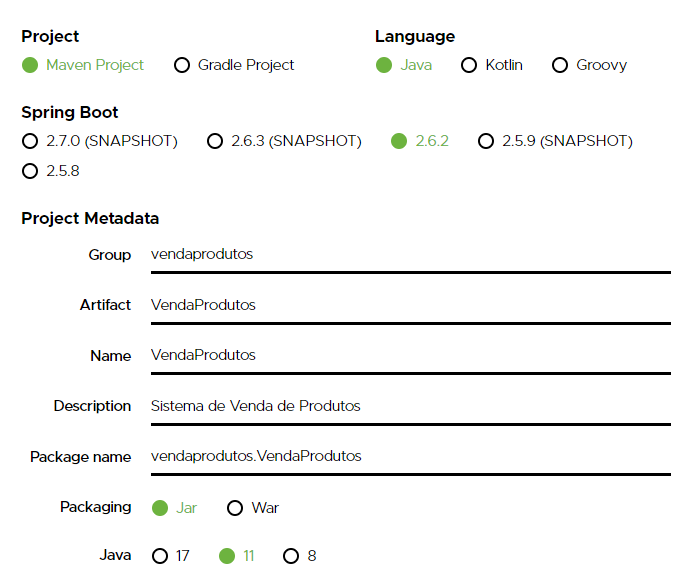
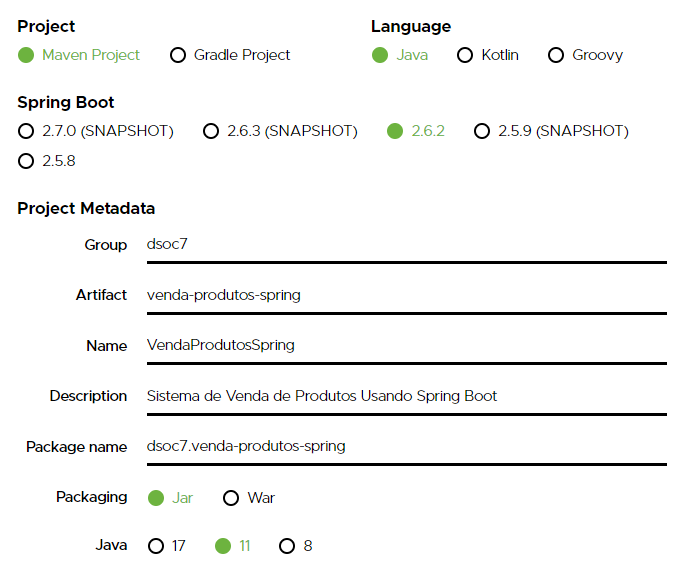
cap 10

diff --git a/capitulo10FrameworksMVCPersistencia.tex b/capitulo10FrameworksMVCPersistencia.tex
@@ -25,41 +25,56 @@ A versão atual da página principal do site do Spring Initializr pode ser vista
 \FloatBarrier
 
 Basicamente do lado esquerdo temos as opções de configuração do projeto:
+
 \begin{itemize}
-    \item \textbf{Project:} qual ferramenta de gerencimanto de projeto será usada;
-    \item \textbf{Language:} a linguagem de programação do projeto;
-    \item \textbf{Spring Boot:} qual a versão do Spring Boot que usaremos;
-    \item \textbf{Project Metadata:} os metadados do projeto:
+    \item \textbf{\textit{Project}:} qual ferramenta de gerencimanto de projetos que será usada (usaremos o Maven);
+    \item \textbf{\textit{Language}:} a linguagem de programação utilizada no projeto;
+    \item \textbf{\textit{Spring Boot}:} qual a versão do Spring Boot que usaremos;
+    \item \textbf{\textit{Project Metadata}:} os metadados do projeto, que envolvem:
     \begin{itemize}
-    content...
+        \item \textbf{\textit{Group}:} nome do identificador do grupo do projeto, normalmente igual ao pacote da organização/empresa do desenvolvedor do projeto, seguindo as regras para noemação de pacotes da linguagem Java (\url{https://docs.oracle.com/javase/specs/jls/se6/html/packages.html#7.7});
+        \item \textbf{\textit{Artifact}:} nome do arquivo que será gerado (sem a extensão \texttt{.jar} ou \texttt{.war}) após a construção do projeto e também o identificador que será usado pelo Maven para encontrar a versão compilada e instalada do projeto dentro do repositório local do Maven. Normalmente identificador do artefato tiver mais de uma palavra, separamos as mesmas por hífens;
+        \item \textbf{\textit{Name}:} nome do projeto, o que aparecerá na raiz do projeto aberto nas IDEs para identificá-los;
+        \item \textbf{\textit{Description}:} breve descrição do objetivo do projeto;
+        \item \textbf{\textit{Project name}:} pacote raiz do projeto, usando como prefixo o identificador do grupo. Caso sejam usados hífens~\footnote{O Spring Initializr usará automaticamente o valor do identificador artefato aqui, trazendo hífens, que serão descartados no pacote final}, eles serão suprimidos no projeto gerado;
+        \item \textbf{\textit{Packaging}:} tipo de empacotamento que será feito. Arquivos \texttt{.jar} podem ser executados localmente e arquivos \texttt{.war} são destinados à implantação em servidores de aplicações e/ou containeres de Servetls;
+        \item \textbf{\textit{Java}:} a versão do Java que se quer usar. Note que apenas as versões \textit{Long-Term Support} (LTS) aparecem e, além disso, você precisa ficar atento para ter um JDK de versão igual ou superior instalado na máquina de desenvolvimento.
     \end{itemize}
-    \item \textbf{:}
-    \item \textbf{:}
-    \item \textbf{:}
-    \item \textbf{:}
-    \item \textbf{:}
-    \item \textbf{:}
 \end{itemize}
+
+Sabendo disso, vamos agora preparar o nosso projeto de acordo com o apresentado na Figura~\ref{fig:cap10SpringInitializrConfProjeto01}:
 
 \FloatBarrier
 \begin{figure}[!htbp]
     \centering
-    \caption{Definição das propriedades do Projeto}
+    \caption{Definição das propriedades do projeto}
     \includegraphics[scale=0.7]{imagens/cap10SpringInitializrConfProjeto01}
     \\\textbf{Fonte:} \url{https://start.spring.io/}
     \label{fig:cap10SpringInitializrConfProjeto01}
 \end{figure}
 \FloatBarrier
 
+Ou seja:
+
 \begin{itemize}
-    \item \textbf{Spring Boot DevTools:} auxília no desenvolvimento de aplicações usando Spring Boot;
-    \item \textbf{Spring Framework:} \textit{framework} que possibilita a injeção de dependências e a inversão de controle;
-    \item \textbf{Spring Data JPA:} \textit{framework} para persistência de dados usando Hibernate e a Java Persistence API (JPA);
-    \item \textbf{Spring Validation:} permite a validação de objetos que serão gerenciados pela aplicação (já fizemos algo parecido);
-    \item \textbf{Spring Web:} construção de aplicações Web usando o padrão de projeto MVC através do \textit{framework} Spring MVC, além da criação de Web Services RESTful;
-    \item \textbf{Lombok:} é uma biblioteca de anotações que nos ajuda na criação automática de código padronizado como getters, setters, construtores etc;
-    \item \textbf{Thymeleaf:} é uma \textit{template engine} que permite a definição de modelos para a criação de interfaces gráficas usando HTML, diminuindo a duplicidade de código e facilitando a manutenção do código.
+    \item \textbf{\textit{Project}:} usaremos o Maven;
+    \item \textbf{\textit{Language}:} programaremos em Java;
+    \item \textbf{\textit{Spring Boot}:} a última versão estável do Spring Boot, nesse caso, a 2.6.2. Note que isso pode variar de acordo com a época que você estiver lendo esse texto;
+    \item \textbf{\textit{Project Metadata}:} os metadados do projeto, que envolvem:
+    \begin{itemize}
+        \item \textbf{\textit{Group}:} usaremos \texttt{dsoc7}, que é a sigla da disciplina para a qual esse livro foi desenvolvido incialmente, mas em um caso real, você deve preencher com a notação de domínio inverso da empresa ou instituição para a qual estiver desenvolvendo o projeto. Por exemplo, se a instuição tem o domínio \texttt{ifsp.edu.br}, você deverá preencher o identificador do grupo com \texttt{br.edu.ifsp}. Caso seja um projeto pessoal e você possuir um domínio, a regra é a mesma. Eu por exemplo tenho o domínio \texttt{davidbuzatto.com.br}, então meu identificador de grupo, para um projeto pessoal, deve ser \texttt{br.com.davidbuzatto};
+        \item \textbf{\textit{Artifact}:} usaremos \texttt{venda-produtos-spring};
+        \item \textbf{\textit{Name}:} o nome preencheremos com \texttt{VendaProdutosSpring}, que é o que aparecerá no NetBeans na raiz do projeto. Aqui em um caso real você poderia usar espaços para nomear o projeto. Eu prefiro sem espaços;
+        \item \textbf{\textit{Description}:} preencher com Sistema de Venda de Produtos Usando Spring Boot;
+        \item \textbf{\textit{Project name}:} aqui o Spring Initializr já deve ter preenchido com a concatenção do identificador do grupo e do identificador do artefato, ficando \texttt{dsoc7.venda-produtos-spring}. Na criação do projeto esses hífens serão retirados, pois nomes de pacotes em Java não podem ter hífem;
+        \item \textbf{\textit{Packaging}:} usaremos empacotamento em \texttt{.jar};
+        \item \textbf{\textit{Java}:} usaremos o Java 11.
+    \end{itemize}
 \end{itemize}
+
+Com isso feito temos a configuração básica do projeto pronta, mas ainda precisamos adicionar as primeiras dependências que utilizaremos. As dependências são basicamente as biblitecas que usaremos no projeto. A vantagem de usar um sistema de gerenciamento de projetos como o Maven é que, ao adicionarmos dependências no projeto, ele se encarregará de carregar todas as dependências que uma dependência depende, inclusive com as versões apropriadas! Nossa vida fica muito mais fácil sem precisar ficar lidando com definição de bibliotecas e isso é um super avanço na produtividade!
+
+Para adicionar uma dependência, clique no botão \destaque{\textit{ADD DEPENDENCIES...}}. Ao fazer isso, um diálogo aparecerá, onde você poderá escolher as dependências do projeto. Ao encontrar a dependência desejada, basta clicar nela que ela será inserida na lista de dependências do projeto. Você pode procurar pelas dependências rolando a lista ou então pesquisando na caixa de texto acima. No nosso projeto utilizaremos sete dependências, apresentadas na Figura~\ref{fig:cap10SpringInitializrConfProjeto02} e descritas a seguir.
 
 \FloatBarrier
 \begin{figure}[!htbp]
@@ -71,13 +86,23 @@ Basicamente do lado esquerdo temos as opções de configuração do projeto:
 \end{figure}
 \FloatBarrier
 
-Agora com o inicializador do projeto configurado, clique no botão ``GENERATE''. Ao fazer isso, um arquivo .zip será baixado. No local onde foi salvo, descompacte-o. Abra o NetBeanse realize o procedimento de abrir projetos. Vá à pasta onde o arquivo zip foi descompactado. Você notará que o NetBeans reconhecerá um projeto Maven ali. Selecione-o e abra-o.
+\begin{itemize}
+    \item \textbf{Spring Boot DevTools:} auxília no desenvolvimento de aplicações usando Spring Boot, permitindo reinicialização rápida, integração com LiveReload etc;
+    \item \textbf{Lombok:} é uma biblioteca de anotações que nos ajuda na criação automática de código padronizado como getters, setters, construtores etc;
+    \item \textbf{Spring Web:} construção de aplicações Web usando o padrão de projeto MVC através do \textit{framework} Spring MVC, além da criação de Web Services RESTful;
+    \item \textbf{Thymeleaf:} é uma \textit{template engine} que permite a definição de modelos para a criação de interfaces gráficas usando HTML, diminuindo a duplicidade de código e facilitando a manutenção.
+    \item \textbf{Spring Data JPA:} \textit{framework} para persistência de dados usando Hibernate e a Java Persistence API (JPA);
+    \item \textbf{MariaDB Driver:} driver de conexão com MariaDB, o SGBD que estamos utilizando neste livro;
+    \item \textbf{Validation:} permite a validação de objetos de dados que serão gerenciados pela aplicação (já fizemos algo parecido, você se lembram?);
+\end{itemize}
 
-Note que se você quiser, pode usar o \textit{link} abaixo para fazer o \textit{download} do projeto com as mesmas configurações apresentadas.
+Agora com o inicializador do projeto configurado, clique no botão \destaque{GENERATE}. Ao fazer isso, um arquivo \texttt{.zip} será baixado, com o nome de \texttt{venda-produtos-spring.zip}. No local onde foi salvo, descompacte-o. Abra o NetBeanse realize o procedimento de abrir projetos. Vá à pasta onde o arquivo foi descompactado. Você notará que o NetBeans reconhecerá um projeto Maven ali. Selecione-o e abra-o.
 
-\url{https://start.spring.io/#!type=maven-project&language=java&platformVersion=2.6.2&packaging=jar&jvmVersion=11&groupId=vendaprodutos&artifactId=VendaProdutos&name=VendaProdutos&description=Sistema%20de%20Venda%20de%20Produtos&packageName=vendaprodutos.VendaProdutos&dependencies=devtools,lombok,web,thymeleaf,data-jpa,mariadb,validation}
+As configurações iniciais do projeto gerado no Spring Initilizr podem ser compartilhadas. Sendo assim, se você quiser, pode usar o \textit{link} abaixo para fazer o \textit{download} do projeto com as mesmas configurações apresentadas.
 
-Provavelmente, após abrir o projeto, seu NetBeans vai demorar alguns minutos --pode demorar bastante na verdade-- para baixar o índice central do Maven e prepará-lo no seu computador. Após esse processo, seu NetBeans vai ``reclamar'', informando que o projeto não contém as dependências no repositório local do Maven. Veja na Figura~\ref{fig:cap10ConfProjeto03} o que provavelmente aparecerá, ou seja, um sinal de aviso (\textit{warning}) no ícone do projeto.
+\url{https://start.spring.io/#!type=maven-project&language=java&platformVersion=2.6.2&packaging=jar&jvmVersion=11&groupId=dsoc7&artifactId=venda-produtos-spring&name=VendaProdutosSpring&description=Sistema%20de%20Venda%20de%20Produtos%20Usando%20Spring%20Boot&packageName=dsoc7.venda-produtos-spring&dependencies=devtools,lombok,web,thymeleaf,data-jpa,mariadb,validation}
+
+Provavelmente, após abrir o projeto, seu NetBeans vai demorar alguns minutos --pode demorar bastante na verdade-- para baixar o índice central do Maven e prepará-lo no seu computador. Após esse processo, seu NetBeans vai ``reclamar'', informando que o repositório do Maven local não tem uma cópia das dependências do projeto. Veja na Figura~\ref{fig:cap10ConfProjeto03} o que provavelmente aparecerá, ou seja, um sinal de aviso (\textit{warning}) no ícone do projeto.
 
 \FloatBarrier
 \begin{figure}[!htbp]
